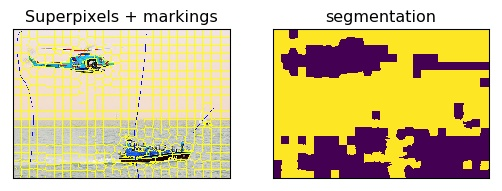
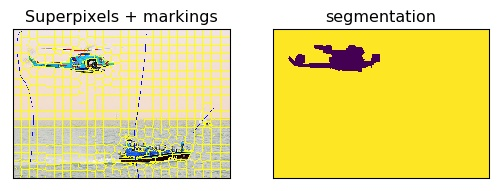
Added pairwise term to new graph cut function

diff --git a/algorithms/algorithms.py b/algorithms/algorithms.py
@@ -108,8 +108,7 @@ class Algorithms:
             # For each pixel in superpixel segmentation look up the cluster of its superpixel
             self.imgs_cosegmented[img] = [segmentation[pixel] for pixel in self.imgs_segmentation[img]]
 
-
-    def perform_graph_cut(self):
+    def perform_graph_cut(self, pairwise_term_scale=1.0):
         # group the foreground and background segments' feature vectors in one list
         feature_vectors_fg = [self.imgs_segment_feature_vectors[img][fg_segment] for img in self.images for fg_segment
                               in self.imgs_foreground_segments[img]]
@@ -149,6 +148,16 @@ class Algorithms:
                 energy_fg = gmm_fg.score_samples([fv])
                 energy_bg = gmm_bg.score_samples([fv])
                 graph.add_tedge(nodes[i], energy_fg, energy_bg)
+
+            # Initialize smoothness terms: energy between neighbors
+            for id in self.imgs_segment_ids[img]:  # Loop over every segment
+                fv = self.imgs_segment_feature_vectors[img][id]  # feature vector for segment
+                for n in self.imgs_segment_neighbors[img][id]:  # For every neighbor of the segment
+                    # Create two edges between segment and its neighbor with cost based on histogram matching
+                    fv_neighbor = self.imgs_segment_feature_vectors[img][n]  # feature vector of segment's neighbor
+                    energy_forward = - cv2.compareHist(fv, fv_neighbor, cv2.HISTCMP_KL_DIV) * pairwise_term_scale
+                    energy_backward = - cv2.compareHist(fv_neighbor, fv, cv2.HISTCMP_KL_DIV) * pairwise_term_scale
+                    graph.add_edge(nodes[id], nodes[n], energy_forward, energy_backward)
 
             graph.maxflow()
 
@@ -288,7 +297,7 @@ if __name__ == '__main__':
         cv2.imwrite('output/masks/'+image.split('/')[-1], np.uint8(alg.get_coseg_mask(image, 0)*255))
 
     alg.plot_cosegmentations(folder_path)
-
+'''
     # Examples on how to create histograms
     image_bgr = alg.imgs_bgr[alg.images[0]]
     mask = alg.imgs_segmentation[alg.images[0]] == 0
@@ -305,7 +314,7 @@ if __name__ == '__main__':
     histograms.plot_histograms(hists_bgr)
 
     print(histograms.get_bgr_histogram(image_bgr, bins_b=3, bins_g=3, bins_r=3))
-
+'''
 # TODO
 
 # Graph-cut with sift
